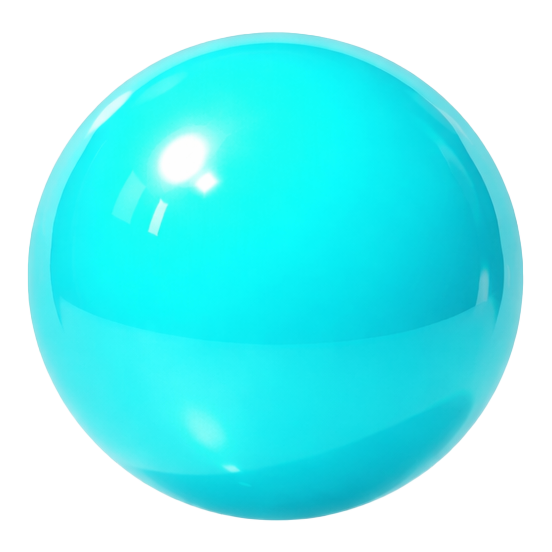
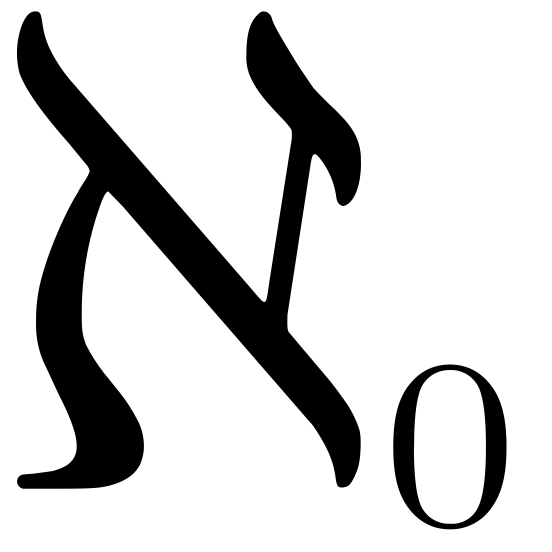
ok

diff --git a/work.html b/work.html
@@ -6,16 +6,38 @@
     <meta name="description" content="Work by Enrico Isidori." />
     <title>Work — Enrico Isidori</title>
     <link rel="manifest" href="manifest.webmanifest" />
-    <link rel="icon" type="image/png" href="asset/svg/cyan.png" />
-    <link rel="icon" sizes="16x16" type="image/png" href="asset/svg/cyan.png" />
-    <link rel="icon" sizes="32x32" type="image/png" href="asset/svg/cyan.png" />
-    <link rel="icon" sizes="192x192" type="image/png" href="asset/svg/cyan.png" />
-    <link rel="apple-touch-icon" sizes="180x180" href="asset/svg/cyan.png" />
+    <link rel="icon" type="image/svg+xml" href="asset/svg/Aleph0.svg" />
+    <link rel="icon" sizes="16x16" type="image/png" href="asset/svg/aleph-icon-16.png" />
+    <link rel="icon" sizes="32x32" type="image/png" href="asset/svg/aleph-icon-32.png" />
+    <link
+      rel="icon"
+      sizes="192x192"
+      type="image/png"
+      href="asset/svg/aleph-icon-192.png"
+    />
+    <link rel="apple-touch-icon" sizes="180x180" href="asset/svg/aleph-icon-180.png" />
     <script src="aleph-boot.js?v=20260719-wiki-work"></script>
-    <link rel="preload" as="image" type="image/webp" media="(min-width: 769px)" href="offdisicpline/asset/optimized/off1.webp" fetchpriority="high" />
-    <link rel="preload" as="image" type="image/webp" media="(max-width: 768px)" href="offdisicpline/asset/optimized/off1-mobile.webp" fetchpriority="high" />
+    <link
+      rel="preload"
+      as="image"
+      type="image/webp"
+      media="(min-width: 769px)"
+      href="offdisicpline/asset/optimized/off1.webp"
+      fetchpriority="high"
+    />
+    <link
+      rel="preload"
+      as="image"
+      type="image/webp"
+      media="(max-width: 768px)"
+      href="offdisicpline/asset/optimized/off1-mobile.webp"
+      fetchpriority="high"
+    />
     <link rel="stylesheet" href="style.css" />
-    <link rel="stylesheet" href="projects.css?v=[phone redacted]-mobile-carousel-edges" />
+    <link
+      rel="stylesheet"
+      href="projects.css?v=[phone redacted]-mobile-carousel-edges"
+    />
   </head>
   <body class="has-canvas projects-page">
     <div id="aleph-stage">
@@ -25,7 +47,7 @@
     <div id="content-scroll">
       <nav class="projects-navigation" aria-label="Primary navigation">
         <a href="work.html">Enrico Isidori</a>
-        <div class="projects-navigation-filters">
+        <div class="projects-navigation-filters" aria-hidden="true">
           <span id="design" class="btn" data-filter="designerpage">Design</span>
           <span id="art" class="btn" data-filter="artistpage">Art</span>
         </div>
@@ -35,8 +57,17 @@
       <main id="projects-list" aria-label="Projects"></main>
 
       <footer class="projects-contacts">
-        <a href="https://www.instagram.com/enrico.isidori/" target="_blank">Instagram</a><br />
-        <a href="mailto:[email redacted]">Mail</a>
+        <a href="mailto:[email redacted]">[email redacted]</a
+        ><br />
+        <a href="https://www.instagram.com/enrico.isidori/" target="_blank"
+          >@enrico.isidori</a
+        >
+        <div class="spacer5"></div>
+        <p class="about-background-note">
+          The background images are pulled at random from the entire Wikipedia
+          library
+        </p>
+        <div class="spacer5"></div>
       </footer>
     </div>
 

diff --git a/about.html b/about.html
@@ -19,13 +19,18 @@
     <meta name="apple-mobile-web-app-capable" content="yes" />
     <title>Enrico Isidori — About</title>
     <link rel="manifest" href="manifest.webmanifest" />
-    <link rel="icon" type="image/png" href="asset/svg/cyan.png" />
-    <link rel="shortcut icon" type="image/png" href="asset/svg/cyan.png" />
-    <link rel="apple-touch-icon" href="asset/svg/cyan.png" />
-    <link rel="icon" sizes="16x16" type="image/png" href="asset/svg/cyan.png" />
-    <link rel="icon" sizes="32x32" type="image/png" href="asset/svg/cyan.png" />
-    <link rel="icon" sizes="192x192" type="image/png" href="asset/svg/cyan.png" />
-    <link rel="apple-touch-icon" sizes="180x180" href="asset/svg/cyan.png" />
+    <link rel="icon" type="image/svg+xml" href="asset/svg/Aleph0.svg" />
+    <link rel="shortcut icon" type="image/png" href="asset/svg/aleph-icon-32.png" />
+    <link rel="apple-touch-icon" href="asset/svg/aleph-icon-180.png" />
+    <link rel="icon" sizes="16x16" type="image/png" href="asset/svg/aleph-icon-16.png" />
+    <link rel="icon" sizes="32x32" type="image/png" href="asset/svg/aleph-icon-32.png" />
+    <link
+      rel="icon"
+      sizes="192x192"
+      type="image/png"
+      href="asset/svg/aleph-icon-192.png"
+    />
+    <link rel="apple-touch-icon" sizes="180x180" href="asset/svg/aleph-icon-180.png" />
     <script src="aleph-boot.js?v=20260719-wiki-work"></script>
     <link rel="stylesheet" href="./style.css" />
     <link rel="stylesheet" href="./about.css" />
@@ -38,7 +43,6 @@
     <div id="content-scroll">
       <nav class="about-navigation" aria-label="Primary navigation">
         <a href="work.html">Enrico Isidori</a>
-        <span aria-hidden="true"></span>
         <a href="work.html">Work</a>
       </nav>
 
@@ -215,8 +219,8 @@
         ></div>
 
         <p class="about-background-note">
-          (the background images are pulled at random from the entire Wikipedia
-          library, click everywhere to toggle it)
+          The background images are pulled at random from the entire Wikipedia
+          library
         </p>
       </div>
 

diff --git a/about/index.html b/about/index.html
@@ -16,13 +16,13 @@
     <meta name="apple-mobile-web-app-capable" content="yes" />
     <title>Enrico Isidori — About</title>
     <link rel="manifest" href="../manifest.webmanifest" />
-    <link rel="icon" type="image/png" href="../asset/svg/cyan.png" />
-    <link rel="shortcut icon" type="image/png" href="../asset/svg/cyan.png" />
-    <link rel="apple-touch-icon" href="../asset/svg/cyan.png" />
-    <link rel="icon" sizes="16x16" type="image/png" href="../asset/svg/cyan.png" />
-    <link rel="icon" sizes="32x32" type="image/png" href="../asset/svg/cyan.png" />
-    <link rel="icon" sizes="192x192" type="image/png" href="../asset/svg/cyan.png" />
-    <link rel="apple-touch-icon" sizes="180x180" href="../asset/svg/cyan.png" />
+    <link rel="icon" type="image/svg+xml" href="../asset/svg/Aleph0.svg" />
+    <link rel="shortcut icon" type="image/png" href="../asset/svg/aleph-icon-32.png" />
+    <link rel="apple-touch-icon" href="../asset/svg/aleph-icon-180.png" />
+    <link rel="icon" sizes="16x16" type="image/png" href="../asset/svg/aleph-icon-16.png" />
+    <link rel="icon" sizes="32x32" type="image/png" href="../asset/svg/aleph-icon-32.png" />
+    <link rel="icon" sizes="192x192" type="image/png" href="../asset/svg/aleph-icon-192.png" />
+    <link rel="apple-touch-icon" sizes="180x180" href="../asset/svg/aleph-icon-180.png" />
     <script src="../aleph-boot.js?v=20260719-wiki-work"></script>
     <link rel="stylesheet" href="../style.css" />
     <link rel="stylesheet" href="../about.css" />

diff --git a/index.html b/index.html
@@ -26,13 +26,13 @@ para-disciplinary design, unbounded design, design approaches"
     />
     <title>Enrico Isidori</title>
     <link rel="manifest" href="manifest.webmanifest" />
-    <link rel="icon" type="image/png" href="asset/svg/cyan.png" />
-    <link rel="shortcut icon" type="image/png" href="asset/svg/cyan.png" />
-    <link rel="apple-touch-icon" href="asset/svg/cyan.png" />
-    <link rel="icon" sizes="16x16" type="image/png" href="asset/svg/cyan.png" />
-    <link rel="icon" sizes="32x32" type="image/png" href="asset/svg/cyan.png" />
-    <link rel="icon" sizes="192x192" type="image/png" href="asset/svg/cyan.png" />
-    <link rel="apple-touch-icon" sizes="180x180" href="asset/svg/cyan.png" />
+    <link rel="icon" type="image/svg+xml" href="asset/svg/Aleph0.svg" />
+    <link rel="shortcut icon" type="image/png" href="asset/svg/aleph-icon-32.png" />
+    <link rel="apple-touch-icon" href="asset/svg/aleph-icon-180.png" />
+    <link rel="icon" sizes="16x16" type="image/png" href="asset/svg/aleph-icon-16.png" />
+    <link rel="icon" sizes="32x32" type="image/png" href="asset/svg/aleph-icon-32.png" />
+    <link rel="icon" sizes="192x192" type="image/png" href="asset/svg/aleph-icon-192.png" />
+    <link rel="apple-touch-icon" sizes="180x180" href="asset/svg/aleph-icon-180.png" />
     <script src="aleph-boot.js"></script>
     <link rel="stylesheet" href="style.css" />
     <style>

diff --git a/projects.css b/projects.css
@@ -93,16 +93,7 @@ body.projects-page .projects-navigation > a:last-child {
 }
 
 body.projects-page .projects-navigation-filters {
-  display: flex;
-  flex-flow: row nowrap;
-  gap: 8px;
-  position: absolute;
-  top: 0;
-  left: 50%;
-  align-items: center;
-  white-space: nowrap;
-  min-width: max-content;
-  transform: translateX(-50%);
+  display: none;
 }
 
 body.projects-page #content-scroll .projects-navigation .btn,

diff --git a/home.html b/home.html
@@ -20,9 +20,9 @@
     />
     <meta name="apple-mobile-web-app-capable" content="yes" />
     <title>Enrico Isidori</title>
-    <link rel="icon" type="image/png" href="asset/svg/cyan.png" />
-    <link rel="shortcut icon" type="image/png" href="asset/svg/cyan.png" />
-    <link rel="apple-touch-icon" href="asset/svg/cyan.png" />
+    <link rel="icon" type="image/svg+xml" href="asset/svg/Aleph0.svg" />
+    <link rel="shortcut icon" type="image/png" href="asset/svg/aleph-icon-32.png" />
+    <link rel="apple-touch-icon" href="asset/svg/aleph-icon-180.png" />
     <link
       rel="stylesheet"
       href="https://fonts.cdnfonts.com/css/helvetica-lt-narrow"

diff --git a/style.css b/style.css
@@ -209,7 +209,7 @@ button.btn-aqua {
 }
 
 .btn-aqua-stack .btn-aqua {
-  pointer-events: auto;
+  pointer-events: none;
 }
 
 a.btn-aqua.primary,

diff --git a/aleph.js b/aleph.js
@@ -31,6 +31,7 @@
 
   const root = document.documentElement;
   let whiteBg = localStorage.getItem("aleph_white_bg") === "1";
+
   if (whiteBg) { stage.style.display = "none"; document.body.classList.add("white-bg"); }
 
   document.body.addEventListener("click", (e) => {